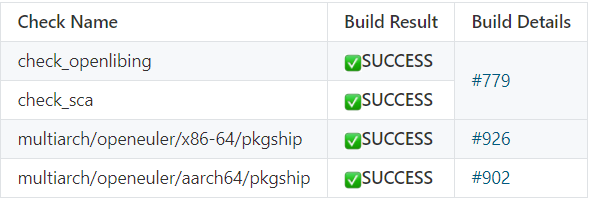
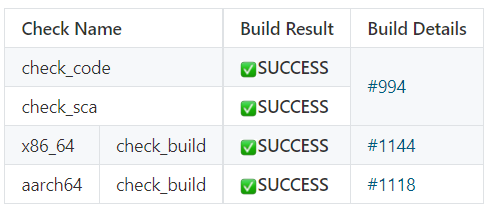
add ci mistake fix info to guild

diff --git a/web-ui/docs/zh/blog/zhengyaohui/2022-03-21-ci_guild.md b/web-ui/docs/zh/blog/zhengyaohui/2022-03-21-ci_guild.md
@@ -33,7 +33,7 @@ openEuler社区代码均托管在gitee上，为了保证代码提交质量，开
 
 开发者可通过链接查看实时门禁构建日志。
 
-### 2.1 门禁检查结果
+### 2.3 门禁检查结果
 
 <center><b>基本检查项<b></center>
 
@@ -45,7 +45,7 @@ openEuler社区代码均托管在gitee上，为了保证代码提交质量，开
 
 门禁基本检查项包括6项，如表1所示。接口变更检查因为子项较多，单独以一个表格显示。
 
-### 2.2 检查项对应门禁代码位置
+### 2.4 检查项对应门禁代码位置
 
 | 检查项                  | 功能描述                 | 主要代码位置                                                 |
 | ----------------------- | ------------------------ | ------------------------------------------------------------ |
@@ -59,7 +59,7 @@ openEuler社区代码均托管在gitee上，为了保证代码提交质量，开
 
 此外，门禁目前支持部分检查项（check_code_style、check_package_license、check_package_yaml_file和check_spec_file）的选择性配置，配置文件位于[ac.yaml](https://gitee.com/openeuler/openeuler-jenkins/blob/master/src/ac/framework/ac.yaml)。负责检查项PR回显的代码位于[gitee_comment.py](https://gitee.com/openeuler/openeuler-jenkins/blob/master/src/build/gitee_comment.py)
 
-### 2.3 基本检查项功能描述
+### 2.5 基本检查项功能描述
 
 | 检查项                  | 功能                         | SUCCESS                                                      | FAILED              | WARNING                                         |
 | ----------------------- | ---------------------------- | ------------------------------------------------------------ | ------------------- | ----------------------------------------------- |
@@ -70,7 +70,7 @@ openEuler社区代码均托管在gitee上，为了保证代码提交质量，开
 | check_build             | 验证编译                     | 构建rpm包成功                                                | 不符合SUCCESS的情况 | 不涉及                                          |
 | check_install           | 验证安装                     | 成功安装构建出的rpm包                                        | 不符合SUCCESS的情况 | 不涉及                                          |
 
-### 2.3 接口变更检查各检查项功能描述
+### 2.6 接口变更检查各检查项功能描述
 
 | 检查项       | 功能                                        | SUCCESS                                                      | FAILED              | WARNING |
 | ------------ | ------------------------------------------- | ------------------------------------------------------------ | ------------------- | ------- |
@@ -85,30 +85,59 @@ openEuler社区代码均托管在gitee上，为了保证代码提交质量，开
 
 ## 3 openeuler门禁检查项
 
-### 2.1 门禁检查项PR回显
+### 3.1 门禁检查项PR回显
 
 <img src="./2022-03-21-ci_guild-05.png">
 
-### 2.2 检查项对应门禁代码位置
+### 3.2 检查项对应门禁代码位置
 
-| 检查项                             | 功能描述                        | 主要代码位置                                                 |
-| ---------------------------------- | ------------------------------- | ------------------------------------------------------------ |
-| check_openlibing                   | 编码规范检查                    | [check_code.py](https://gitee.com/openeuler/openeuler-jenkins/blob/master/src/ac/acl/openlibing/check_code.py) |
-| check_sca                          | 代码片段扫描                    | [check_sca.py](https://gitee.com/openeuler/openeuler-jenkins/blob/master/src/ac/acl/sca/check_sca.py) |
-| multiarch/openeuler/x86-64/仓库名  | x86-64环境下包构建及构建后检查  | 维护者自行实现，不属于门禁代码                               |
-| multiarch/openeuler/aarch64/仓库名 | aarch64环境下包构建及构建后检查 | 同上                                                         |
+| 检查项         | 功能描述                        | 主要代码位置                                                 |
+| -------------- | ------------------------------- | ------------------------------------------------------------ |
+| check_code     | 编码规范检查                    | [check_code.py](https://gitee.com/openeuler/openeuler-jenkins/blob/master/src/ac/acl/openlibing/check_code.py) |
+| check_sca      | 代码片段扫描                    | [check_sca.py](https://gitee.com/openeuler/openeuler-jenkins/blob/master/src/ac/acl/sca/check_sca.py) |
+| x86-64/仓库名  | x86-64环境下包构建及构建后检查  | 维护者自行实现，不属于门禁代码                               |
+| aarch64/仓库名 | aarch64环境下包构建及构建后检查 | 同上                                                         |
 
 此外，门禁支持检查项check_openlibing和check_sca的选择性配置，配置文件位于[ac.yaml](https://gitee.com/openeuler/openeuler-jenkins/blob/master/src/ac/framework/ac.yaml)。负责检查项PR回显的代码位于[gitee_comment.py](https://gitee.com/openeuler/openeuler-jenkins/blob/master/src/build/gitee_comment.py)
 
 当前check_openlibing是调用远端服务（https://majun.osinfra.cn:8384/api/openlibing/codecheck）实现的；check_sca则是调用远端服务（https://sca-beta.osinafra.cn）实现的。
 
-# 二、门禁代码上线流程
+# 二、 门禁结果答疑&&误报反馈
 
-依次包括3个步骤：向门禁代码仓提交并合入PR（找maintainer）；为此次提交生成tag（找maintainer）；更新容器镜像（找门禁看护人员）。少数情况下需要门禁看护人员修改jenkins配置。
+## 1. 门禁责任田划分
 
-| maintainer                                                   | 门禁看护人员                                                 |
+| 责任田                                                       | 责任人                                                       |
 | ------------------------------------------------------------ | ------------------------------------------------------------ |
-| [George.Cao ](https://gitee.com/open_euler/dashboard/members/georgecao), [solarhu ](https://gitee.com/open_euler/dashboard/members/solarhu), [chong_W ](https://gitee.com/open_euler/dashboard/members/wangchong1995924), [TommyLike ](https://gitee.com/open_euler/dashboard/members/TommyLike), [范佳臣 ](https://gitee.com/open_euler/dashboard/members/disnight), [刘奇 ](https://gitee.com/open_euler/dashboard/members/liuqi469227928), [郑耀辉](https://gitee.com/open_euler/dashboard/members/zhengyaohui) | [王欢](https://e.gitee.com/open_euler/members/trend/wanghuan158), [程少巍](https://e.gitee.com/open_euler/members/trend/MementoMoriCheng), [郑耀辉](https://gitee.com/open_euler/dashboard/members/zhengyaohui) |
+| 门禁总接口人                                                 | [郑耀辉](https://gitee.com/open_euler/dashboard/members/zhengyaohui) |
+| community仓库维护人员                                        | [曹志](https://gitee.com/open_euler/dashboard/members/georgecao), [刘奇 ](https://gitee.com/open_euler/dashboard/members/liuqi469227928), [赵春江](https://e.gitee.com/open_euler/members/trend/dakang_siji) |
+| obs_meta仓库维护人员                                         | [董杰](https://e.gitee.com/open_euler/members/trend/dongjie110) |
+| release_management仓库维护人员                               | [董杰](https://e.gitee.com/open_euler/members/trend/dongjie110) |
+| 软件包单仓门禁维护人员                                       | [王欢](https://e.gitee.com/open_euler/members/trend/wanghuan158), [程少巍](https://e.gitee.com/open_euler/members/trend/MementoMoriCheng), [郑耀辉](https://gitee.com/open_euler/dashboard/members/zhengyaohui) |
+| 基础设施维护（包括obs、gitee、jenkins基础服务，也包括硬件和网络）人员 | [曹志](https://gitee.com/open_euler/dashboard/members/georgecao), [刘奇 ](https://gitee.com/open_euler/dashboard/members/liuqi469227928), [赵春江](https://e.gitee.com/open_euler/members/trend/dakang_siji) |
+| obs工程维护人员                                              | [王冲](https://gitee.com/open_euler/dashboard/members/wangchong1995924), [夏森林](https://e.gitee.com/open_euler/members/trend/small_leek), [周夏香](https://e.gitee.com/open_euler/members/trend/zhouxiaxiang) |
+| majun维护人员                                                | 张亚雄（openlibing@163.com）                                 |
+
+注：1. 软件包单仓门禁中的代码片段扫描（check_sca）和编码规范检查（check_code）是通过调用majun平台服务实现的
+
+2. 软件包单仓门禁维护人员是作为openeuler以及src-openeuler单仓门禁接口人，单仓门禁问题都可以找他们；如果是obs或者是基础设施服务问题，则需要再联系相应的维护人员。常见问题及解决方案可参考[门禁问题排查手册](https://gitee.com/openeuler/openeuler-jenkins/blob/master/doc/%E9%97%A8%E7%A6%81%E9%97%AE%E9%A2%98%E6%8E%92%E6%9F%A5%E6%89%8B%E5%86%8C.md)。
+
+## 2. 门禁结果
+
+如果对门禁结果有疑问或者认为门禁结果不准确，可以向相关负责人反馈问题，我们会尽快解决，无法短时间解决的可以向门禁仓库[https://gitee.com/openeuler/openeuler-jenkins](https://gitee.com/openeuler/openeuler-jenkins)提issue跟踪进展。之后，您可以通过pr评论反馈门禁误报情况，这些统计数据便于我们以后能做得更好。
+
+标记误报的评论格式为：/ci_unmistake build_no或者/ci_mistake build_no <mistake_type> <ci_mistake_stage>
+
+注：
+
+1. ci_mistake用于标记误报，ci_unmistake用于撤回标记，必选其一
+2. build_no指的是trigger工程的构建号，门禁开始执行时会在评论中打印门禁任务链接及构建号，由于同一个pr可以有多次构建结果，因此通过构建号区分。必选参数
+3. mistake_type表示误报类型。可选参数，可以选择ci,obs,infra或者不填，这里将误报结果划分为门禁本身，obs以及基础设施三类
+4. ci_mistake_stage表示误报阶段。可选参数，check_binary_file, check_package_license, check_package_yaml_file, check_spec_file, check_build, check_install, compare_package, build_exception选一项或多项，也可不填，除build_exception外均与门禁检查项一一对应，而build_exception表示门禁运行异常（如门禁结果不返回）。
+5. mistake_type和ci_mistake_stage的填写顺序没有要求，可以调换
+
+# 三、门禁代码上线流程
+
+依次包括3个步骤：向门禁代码仓提交并合入PR（找maintainer）；为此次提交生成tag（找maintainer）；更新容器镜像（找门禁看护人员[王欢](https://e.gitee.com/open_euler/members/trend/wanghuan158), [程少巍](https://e.gitee.com/open_euler/members/trend/MementoMoriCheng), [郑耀辉](https://gitee.com/open_euler/dashboard/members/zhengyaohui)）。少数情况下需要门禁看护人员修改jenkins配置。
 
 ## 1. 提交并合入PR
 
@@ -126,7 +155,7 @@ openEuler社区代码均托管在gitee上，为了保证代码提交质量，开
 
 
 
-# 三、运行节点定制
+# 四、运行节点定制
 
 ## 1. 当前节点/镜像列表
 
